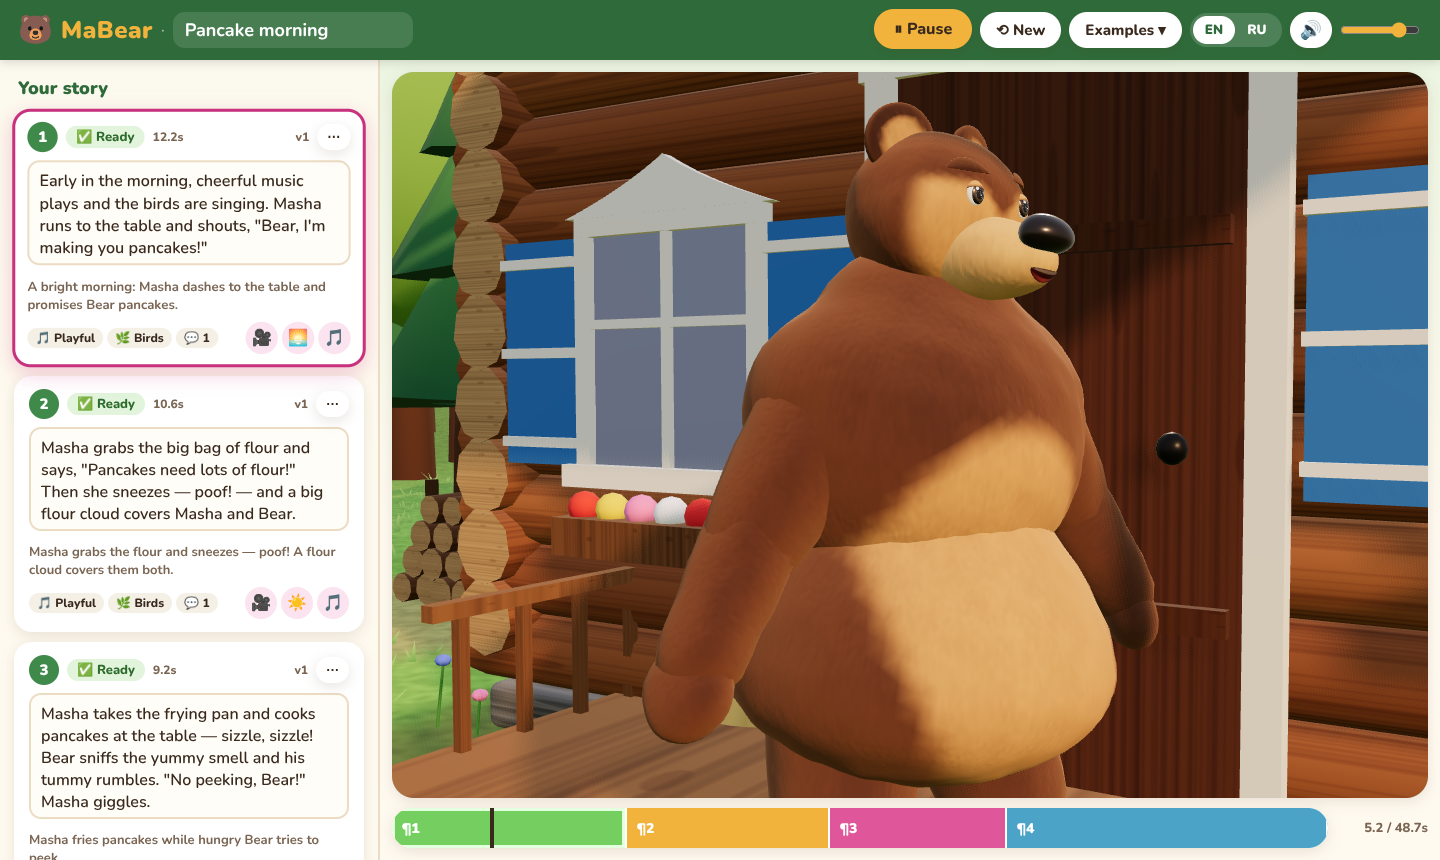
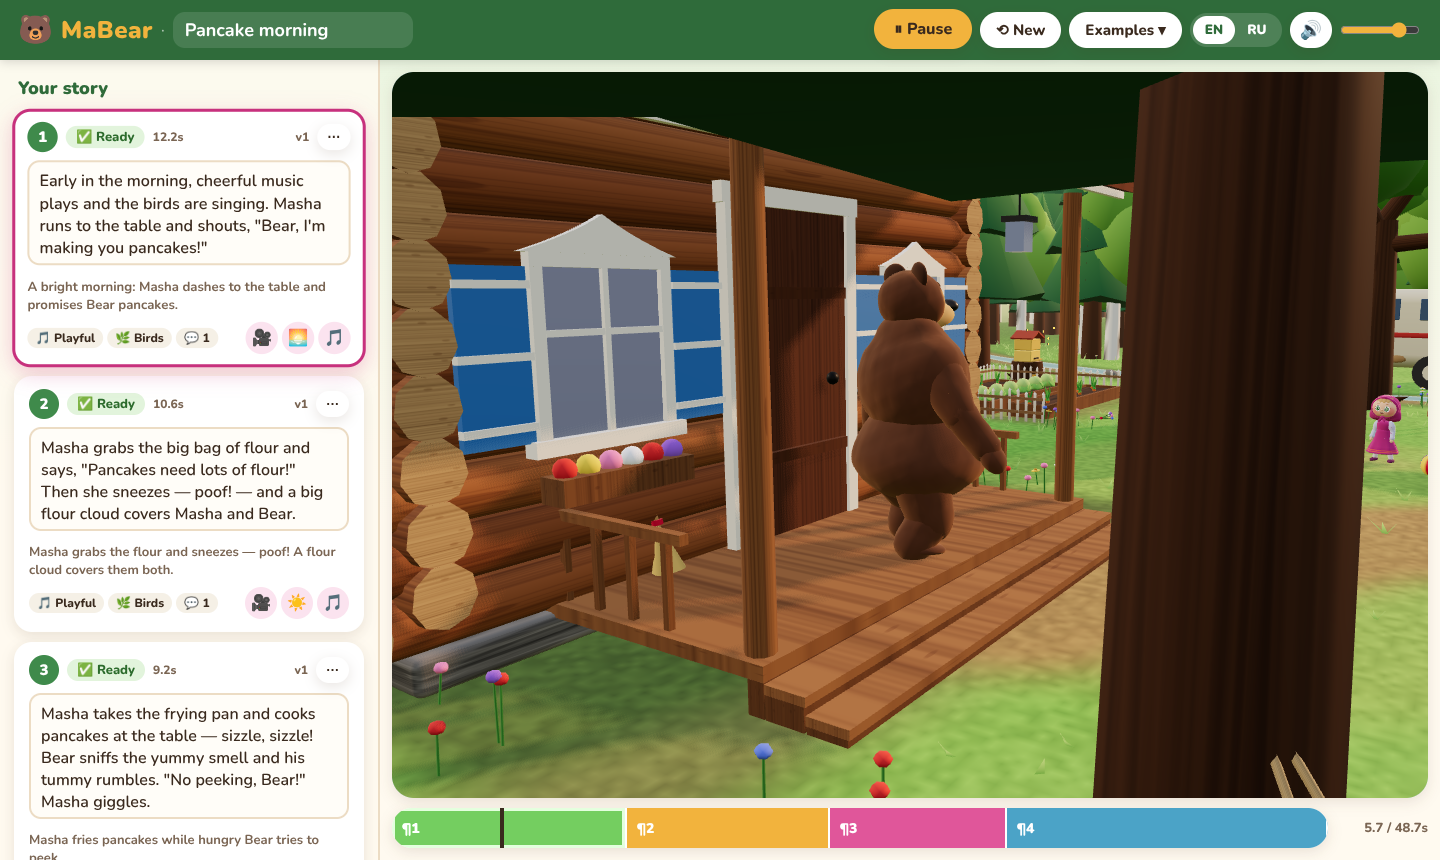
compiler: blocked shots fall back to a clear static framing
Claude-Session: https://claude.ai/code/session_016JFz9MVdai9o8C3gK4PmVv

diff --git a/src/compiler/camera.ts b/src/compiler/camera.ts
@@ -292,8 +292,22 @@ export function planCamera(input: CameraPlanInput): CameraCue[] {
       const cost = occlusionCost(fr.from, h0) + occlusionCost(fr.to, h1);
       if (cost < bestCost - 1e-6) { best = fr; bestCost = cost; }
     }
+    // still blocked (camera boxed in by trunks): fall back to a static medium, then a wide, from the clearest yaw
+    let kind = s.kind;
+    if (bestCost >= 1 && !s.overridden) {
+      for (const alt of ["medium", "wide"] as Kind[]) {
+        if (alt === s.kind) continue;
+        for (const dlt of [0, 0.35, -0.35, 0.7, -0.7, 1.05, -1.05]) {
+          const fr = framing(alt, s.subject, s.start, s.end, Math.max(-1.3, Math.min(1.3, angle + dlt)), side, posAt, visibleAt, rnd, input.headY);
+          const cost = occlusionCost(fr.from, h0) + occlusionCost(fr.to, h1);
+          if (cost < bestCost - 1e-6) { best = fr; bestCost = cost; kind = alt; }
+          if (bestCost < 1) break;
+        }
+        if (bestCost < 1) break;
+      }
+    }
     const { from, to } = best;
-    return { start: r3(s.start), dur: r3(s.end) - r3(s.start), shot: shotName(s.kind), from, to, overridden: s.overridden };
+    return { start: r3(s.start), dur: r3(s.end) - r3(s.start), shot: shotName(kind), from, to, overridden: s.overridden };
   });
 }
 

diff --git a/docs/NOTES.md b/docs/NOTES.md
@@ -41,3 +41,4 @@ One line per decision: date — decision — why.
 - 2026-11-05 — Camera priority: beat shot hint > speaker (holds the whole line) > Masha action > Bear action > reaction (after the line, 1–1.5 s); two-shot when both act within 8 m; yaw nudges (±0.35/0.7/1.05 rad on the 180° side) to clear occluders (trunks, house, van); cameras clamped inside the yard clearing — spec §7.5 + QA finding that Masha was off screen while talking.
 - 2026-11-05 — Motion: standing poses are ground-locked via leg FK on each rig's real leg lengths; hops/flights layered on top; Bear's arms abducted ~26° to clear the belly; remaining foot slip (~9% Masha, ~20% Bear) needs IK — out of the time box.
 - 2026-11-05 — Camera occluders follow the rotated hammock pines ((-9.54,0.69), (-12.46,3.71)); blocked shots may swing up to ±1.6 rad (still on the 180° side); a close-up only requires its framed subject to be clear — fixes the trunk-filled player shot found in the final screenshot review.
+- 2026-11-05 — A shot still blocked after all yaw nudges falls back to a static medium, then a wide, from the clearest yaw (unless the script hinted the shot) — 0 of 125 fixture shots now have a trunk filling the frame (was the hammock pine in Pancake ¶1's 5.6 s tracking shot).
